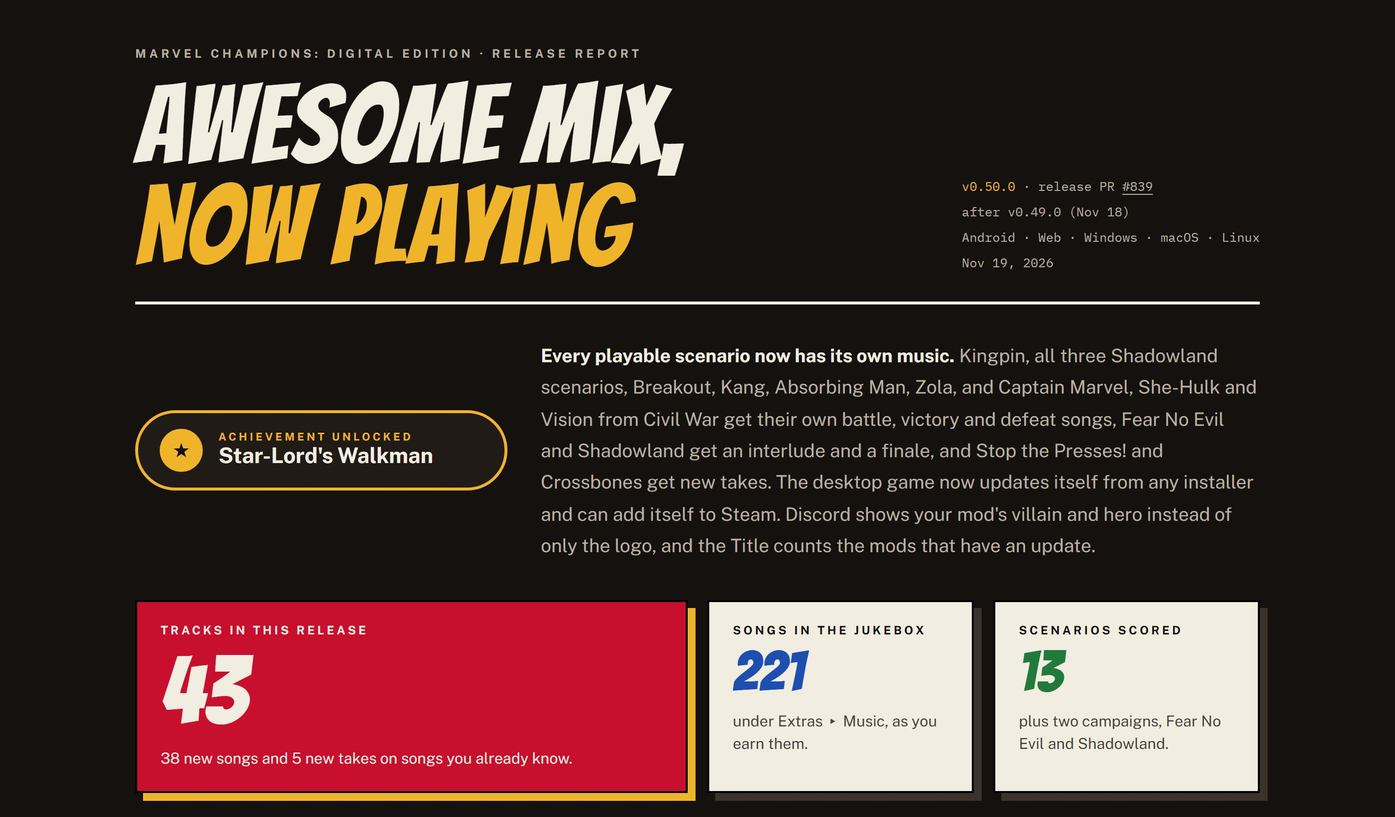
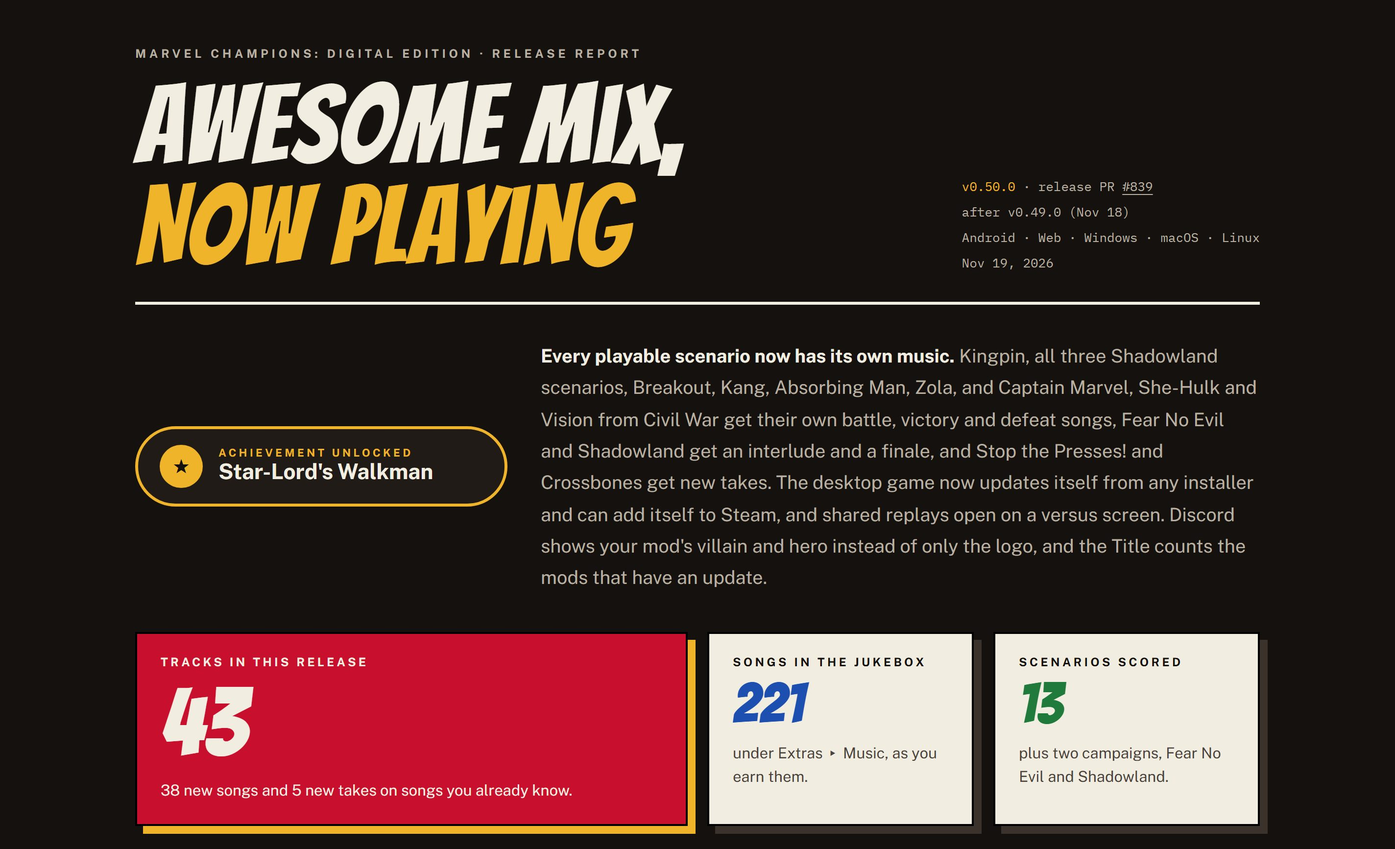
Add the replay versus screen (#859) to the v0.50.0 report

diff --git a/packages/client/public/releases/v0.50.0/index.html b/packages/client/public/releases/v0.50.0/index.html
@@ -658,8 +658,9 @@
           <b>Every playable scenario now has its own music.</b> Kingpin, all three Shadowland scenarios, Breakout, Kang,
           Absorbing Man, Zola, and Captain Marvel, She-Hulk and Vision from Civil War get their own battle, victory and
           defeat songs, Fear No Evil and Shadowland get an interlude and a finale, and Stop the Presses! and Crossbones
-          get new takes. The desktop game now updates itself from any installer and can add itself to Steam. Discord
-          shows your mod's villain and hero instead of only the logo, and the Title counts the mods that have an update.
+          get new takes. The desktop game now updates itself from any installer and can add itself to Steam, and shared
+          replays open on a versus screen. Discord shows your mod's villain and hero instead of only the logo, and the
+          Title counts the mods that have an update.
         </p>
       </section>
 
@@ -897,6 +898,69 @@
         </figure>
       </div>
 
+      <!-- ============ REPLAYS ============ -->
+      <div class="band">
+        <h2>Replays that enter like a boss fight</h2>
+        <div class="lab">Issue #858 · PR #859</div>
+      </div>
+      <div class="pill feat">
+        <div class="star">★</div>
+        <div><small>Achievement unlocked</small><span>The Watcher Is Watching</span></div>
+      </div>
+      <p class="lead">
+        <b>A shared replay link no longer lands on the title menu first.</b> It opens on its own loading screen, then a
+        versus screen of the villain against the heroes slides in with a whoosh, and the board comes up underneath.
+        Every replay opens this way now, from Past games, Game over and the Title too.
+      </p>
+      <div class="shots s-phone">
+        <figure class="a">
+          <img
+            src="img/replay-versus.webp"
+            alt="The versus screen: Klaw on the left, Captain America on the right, VERSUS on the seam between them"
+            width="1280"
+            height="871"
+            loading="lazy"
+          />
+          <figcaption>Klaw versus Captain America</figcaption>
+        </figure>
+        <figure class="a">
+          <img
+            src="img/replay-versus-phone.webp"
+            alt="The same versus screen on an iPhone SE, the villain above the hero"
+            width="375"
+            height="667"
+            loading="lazy"
+          />
+          <figcaption>Stacked on a phone</figcaption>
+        </figure>
+      </div>
+      <div class="cols">
+        <figure class="a">
+          <img
+            src="img/replay-loading.webp"
+            alt="Shared replay: Loading the shared replay, with a Cancel button, over a faded title picture"
+            width="1280"
+            height="871"
+            loading="lazy"
+          />
+          <figcaption>The loading screen a link opens on</figcaption>
+        </figure>
+        <div class="box">
+          <h3>Also with replays</h3>
+          <ul class="ck">
+            <li>
+              An expired, invalid or unreachable link says why on the loading screen, with a <b>Main menu</b> button.
+            </li>
+            <li>
+              Opening a replay file lives in <b>Past games</b>, with a folder icon. In the desktop app it opens your
+              system's own Open dialog, so a controller's A press works on Steam Deck and Bazzite.
+            </li>
+            <li>A replay plays its scenario's battle music.</li>
+            <li>Settings opened from Pause no longer draws over the sheets it opens, such as Controls.</li>
+          </ul>
+        </div>
+      </div>
+
       <!-- ============ DISCORD ============ -->
       <div class="band">
         <h2>Your mods, on Discord and the Title</h2>
@@ -1115,22 +1179,22 @@
       <section class="stats" aria-label="Code shipped since v0.49.0">
         <div class="tile">
           <h4>Pull requests</h4>
-          <div class="n">14</div>
+          <div class="n">15</div>
           <p>merged into main.</p>
         </div>
         <div class="tile">
           <h4>Files changed</h4>
-          <div class="n">141</div>
+          <div class="n">184</div>
           <p>across the client, the desktop app, the music and this report.</p>
         </div>
         <div class="tile">
           <h4>Lines added</h4>
-          <div class="n c-green">6,651</div>
-          <p>the updater, Add to Steam, the Discord work, their tests and this report.</p>
+          <div class="n c-green">8,346</div>
+          <p>the updater, Add to Steam, the replay screens, their tests and this report.</p>
         </div>
         <div class="tile">
           <h4>Lines removed</h4>
-          <div class="n c-red">1,005</div>
+          <div class="n c-red">1,172</div>
           <p>across the same pull requests.</p>
         </div>
       </section>

diff --git a/docs/releases/es/v0.50.0.md b/docs/releases/es/v0.50.0.md
@@ -1,22 +1,24 @@
 ## Awesome Mix, sonando ahora
 
-Cada escenario jugable tiene ahora su propia música. Kingpin, los tres escenarios de Shadowland (Shadows in the Night, Shadow Labyrinth y Heart of Shadow), Breakout, Kang, Absorbing Man, Zola, y Captain Marvel, She-Hulk y Vision de Civil War tienen su propia música de batalla, de victoria y de derrota, Fear No Evil y Shadowland tienen un interludio y un final de campaña, y Stop the Presses! y Crossbones estrenan nuevas versiones: 43 temas en total, 38 de ellos nuevos (#848, #849, #852, #854). El juego de escritorio ahora se actualiza solo desde el propio juego, sea cual sea el instalador que usaste: Update descarga la versión nueva en segundo plano y Restart te pone en ella, a partir de la versión siguiente a esta (#843, #847). Settings ▸ More ▸ Add to Steam pone el juego en tu biblioteca de Steam con su arte (#844, #850). En la app de escritorio, la Rich Presence de Discord muestra ahora el villano y el héroe del propio paquete de la Mod Store en vez de solo el logo del juego, y su botón Get the game abre las descargas en el sitio web (#840, #841), y el botón Mod Store del Title cuenta los paquetes instalados que tienen una actualización (#845, #855). Los contadores de chi de Power Man ahora preguntan "Remove how many chi counters?" con botones que se ven, gracias al reporte de @Merman-Helville (#856, #857). En Linux, las descargas de la Mod Store ahora muestran su progreso en vez de parecer congeladas (#860, #861). En una computadora, la parte superior del sitio web ofrece ahora el script de Steam junto a la descarga (#842, #846). Gracias a Patatasaurio, a Neptune (Typhon00) y a PermaKarma, con cuyos paquetes de Gwenpool, Mephisto, Carnage y The Punisher se comprobó, y a cada creador de la Mod Store. ¡Gracias por jugar!
+Cada escenario jugable tiene ahora su propia música. Kingpin, los tres escenarios de Shadowland (Shadows in the Night, Shadow Labyrinth y Heart of Shadow), Breakout, Kang, Absorbing Man, Zola, y Captain Marvel, She-Hulk y Vision de Civil War tienen su propia música de batalla, de victoria y de derrota, Fear No Evil y Shadowland tienen un interludio y un final de campaña, y Stop the Presses! y Crossbones estrenan nuevas versiones: 43 temas en total, 38 de ellos nuevos (#848, #849, #852, #854). El juego de escritorio ahora se actualiza solo desde el propio juego, sea cual sea el instalador que usaste: Update descarga la versión nueva en segundo plano y Restart te pone en ella, a partir de la versión siguiente a esta (#843, #847). Settings ▸ More ▸ Add to Steam pone el juego en tu biblioteca de Steam con su arte (#844, #850). Un enlace a una repetición compartida abre su propia pantalla de carga y una pantalla de versus del villano contra los héroes, y cada repetición se abre así (#858, #859). En la app de escritorio, la Rich Presence de Discord muestra ahora el villano y el héroe del propio paquete de la Mod Store en vez de solo el logo del juego, y su botón Get the game abre las descargas en el sitio web (#840, #841), y el botón Mod Store del Title cuenta los paquetes instalados que tienen una actualización (#845, #855). Los contadores de chi de Power Man ahora preguntan "Remove how many chi counters?" con botones que se ven, gracias al reporte de @Merman-Helville (#856, #857). En Linux, las descargas de la Mod Store ahora muestran su progreso en vez de parecer congeladas (#860, #861). En una computadora, la parte superior del sitio web ofrece ahora el script de Steam junto a la descarga (#842, #846). Gracias a Patatasaurio, a Neptune (Typhon00) y a PermaKarma, con cuyos paquetes de Gwenpool, Mephisto, Carnage y The Punisher se comprobó, y a cada creador de la Mod Store. ¡Gracias por jugar!
 
-![Los números: 43 temas en esta versión, 221 canciones en la gramola y 13 escenarios con música](https://raw.githubusercontent.com/quincarter/marvel-champions-digital-game/cade356a7677f19ff16d01ad6c009fa552c4b02e/docs/screenshots/releases/v0.50.0/v0-50-0-release-01-the-numbers.jpg)
+![Los números: 43 temas en esta versión, 221 canciones en la gramola y 13 escenarios con música](https://raw.githubusercontent.com/quincarter/marvel-champions-digital-game/0000000000000000000000000000000000000000/docs/screenshots/releases/v0.50.0/v0-50-0-release-01-the-numbers.jpg)
 
-![Cada escenario tiene banda sonora: la gramola con el tema de batalla de Kingpin, en escritorio y teléfono, y cada tema nuevo por escenario, Civil War incluida](https://raw.githubusercontent.com/quincarter/marvel-champions-digital-game/cade356a7677f19ff16d01ad6c009fa552c4b02e/docs/screenshots/releases/v0.50.0/v0-50-0-release-02-every-scenario-has-a-soundtrack.jpg)
+![Cada escenario tiene banda sonora: la gramola con el tema de batalla de Kingpin, en escritorio y teléfono, y cada tema nuevo por escenario, Civil War incluida](https://raw.githubusercontent.com/quincarter/marvel-champions-digital-game/0000000000000000000000000000000000000000/docs/screenshots/releases/v0.50.0/v0-50-0-release-02-every-scenario-has-a-soundtrack.jpg)
 
-![Actualizaciones que se instalan solas: The game has been updated con Restart now, el aviso con Restart, cómo se actualiza cada instalador, y Settings ▸ More ▸ Add to Steam](https://raw.githubusercontent.com/quincarter/marvel-champions-digital-game/cade356a7677f19ff16d01ad6c009fa552c4b02e/docs/screenshots/releases/v0.50.0/v0-50-0-release-03-updates-that-install-themselves.jpg)
+![Actualizaciones que se instalan solas: The game has been updated con Restart now, el aviso con Restart, cómo se actualiza cada instalador, y Settings ▸ More ▸ Add to Steam](https://raw.githubusercontent.com/quincarter/marvel-champions-digital-game/0000000000000000000000000000000000000000/docs/screenshots/releases/v0.50.0/v0-50-0-release-03-updates-that-install-themselves.jpg)
 
-![Tus mods, en Discord y en el Title: Carnage contra The Punisher en Discord, las descargas del sitio web que abre Get the game, Gwenpool y Mephisto de la Mod Store, y la insignia de actualizaciones del botón Mod Store](https://raw.githubusercontent.com/quincarter/marvel-champions-digital-game/cade356a7677f19ff16d01ad6c009fa552c4b02e/docs/screenshots/releases/v0.50.0/v0-50-0-release-04-your-mods-on-discord-and-the-title.jpg)
+![Repeticiones que entran como un jefe final: la pantalla de versus de Klaw contra Captain America en escritorio y teléfono, la pantalla de carga de una repetición compartida, y qué más cambió en las repeticiones](https://raw.githubusercontent.com/quincarter/marvel-champions-digital-game/0000000000000000000000000000000000000000/docs/screenshots/releases/v0.50.0/v0-50-0-release-04-replays-that-enter-like-a-boss-fight.jpg)
 
-![Lo pediste, lo corregimos: los contadores de chi de Power Man preguntan Remove how many chi counters? con botones que se ven, reportado por @Merman-Helville](https://raw.githubusercontent.com/quincarter/marvel-champions-digital-game/cade356a7677f19ff16d01ad6c009fa552c4b02e/docs/screenshots/releases/v0.50.0/v0-50-0-release-05-you-asked-we-fixed.jpg)
+![Tus mods, en Discord y en el Title: Carnage contra The Punisher en Discord, las descargas del sitio web que abre Get the game, Gwenpool y Mephisto de la Mod Store, y la insignia de actualizaciones del botón Mod Store](https://raw.githubusercontent.com/quincarter/marvel-champions-digital-game/0000000000000000000000000000000000000000/docs/screenshots/releases/v0.50.0/v0-50-0-release-05-your-mods-on-discord-and-the-title.jpg)
 
-![También en v0.50.0: las publicaciones de Discord enlazan a las descargas del sitio web, el progreso de las descargas de la Mod Store en Linux, y el botón Steam script del sitio web](https://raw.githubusercontent.com/quincarter/marvel-champions-digital-game/cade356a7677f19ff16d01ad6c009fa552c4b02e/docs/screenshots/releases/v0.50.0/v0-50-0-release-06-also-in-v0-50-0.jpg)
+![Lo pediste, lo corregimos: los contadores de chi de Power Man preguntan Remove how many chi counters? con botones que se ven, reportado por @Merman-Helville](https://raw.githubusercontent.com/quincarter/marvel-champions-digital-game/0000000000000000000000000000000000000000/docs/screenshots/releases/v0.50.0/v0-50-0-release-06-you-asked-we-fixed.jpg)
 
-![Gracias a @Merman-Helville, a Patatasaurio, a Neptune (Typhon00), a PermaKarma y a cada creador de la Mod Store](https://raw.githubusercontent.com/quincarter/marvel-champions-digital-game/cade356a7677f19ff16d01ad6c009fa552c4b02e/docs/screenshots/releases/v0.50.0/v0-50-0-release-07-thank-you.jpg)
+![También en v0.50.0: las publicaciones de Discord enlazan a las descargas del sitio web, el progreso de las descargas de la Mod Store en Linux, y el botón Steam script del sitio web](https://raw.githubusercontent.com/quincarter/marvel-champions-digital-game/0000000000000000000000000000000000000000/docs/screenshots/releases/v0.50.0/v0-50-0-release-07-also-in-v0-50-0.jpg)
 
-![Código publicado desde v0.49.0](https://raw.githubusercontent.com/quincarter/marvel-champions-digital-game/cade356a7677f19ff16d01ad6c009fa552c4b02e/docs/screenshots/releases/v0.50.0/v0-50-0-release-08-code-shipped.jpg)
+![Gracias a @Merman-Helville, a Patatasaurio, a Neptune (Typhon00), a PermaKarma y a cada creador de la Mod Store](https://raw.githubusercontent.com/quincarter/marvel-champions-digital-game/0000000000000000000000000000000000000000/docs/screenshots/releases/v0.50.0/v0-50-0-release-08-thank-you.jpg)
+
+![Código publicado desde v0.49.0](https://raw.githubusercontent.com/quincarter/marvel-champions-digital-game/0000000000000000000000000000000000000000/docs/screenshots/releases/v0.50.0/v0-50-0-release-09-code-shipped.jpg)
 
 ## [v0.50.0] - 2026-11-19
 
@@ -27,16 +29,20 @@ Cada escenario jugable tiene ahora su propia música. Kingpin, los tres escenari
 - Un juego de escritorio instalado desde el .exe o .msi de Windows, la app de Mac o el AppImage de Linux de la versión se actualiza solo desde el aviso de actualización: descarga en segundo plano, dice que el juego se ha actualizado y se reinicia en la versión nueva (#843).
 - El juego de escritorio tiene un botón Add to Steam en Settings ▸ More: ejecuta el script Install for Steam sobre el juego tal como está y lo pone en tu biblioteca de Steam con su arte, y solo aparece cuando Steam está instalado y el juego aún no está en él (#844).
 - El informe de la versión v0.50.0 tiene su propia página en el sitio, en /releases/v0.50.0/
+- Cada repetición (Past games, Game over, las partidas en curso del Title, Extras) se abre ahora en la pantalla de versus, con un silbido al aparecer (#858).
 
 ### Changed
 
 - El botón Get the game de la presencia de Discord abre la sección de descargas del sitio web en vez de la página de la versión en GitHub.
+- Un enlace a una repetición compartida abre ahora su propia pantalla de carga y muestra una pantalla de versus del villano contra los héroes antes de la mesa, sin pasar por el menú del título; una repetición caducada, no válida o inalcanzable dice por qué ahí, con un botón Main menu (#858).
 
 ### Fixed
 
 - La presencia de Discord muestra el arte de las cartas de los villanos y héroes de los mods desde la Mod Store en vez de solo el logo (#840).
 - Los contadores de chi de Power Man (y cualquier otro coste de "quitar hasta N contadores") preguntan "Remove how many chi counters?" con botones numéricos que se ven, en vez de un "2" rojo sobre rojo bajo "How many chi?" (#856).
 - Las descargas de la Mod Store en la app de escritorio muestran su progreso a medida que llega el zip, así que en Linux instalar o actualizar un mod ya no parece congelado en Starting (#860).
+- Abrir un archivo de repetición: Extras ya no tiene el botón (está en Past games, ahora con un icono de carpeta y una etiqueta más clara), y en la app de escritorio abre el diálogo Abrir del sistema, así que el botón A de un mando funciona en Steam Deck y Bazzite (#858).
+- Settings abierto desde el menú de pausa ya no se dibuja encima de las hojas que abre, como Controls (#858).
 
 ### Content
 

diff --git a/docs/screenshots/releases/v0.50.0/github-release-body.md b/docs/screenshots/releases/v0.50.0/github-release-body.md
@@ -1,26 +1,28 @@
 ## Awesome Mix, Now Playing
 
-Every playable scenario now has its own music. Kingpin, all three Shadowland scenarios (Shadows in the Night, Shadow Labyrinth and Heart of Shadow), Breakout, Kang, Absorbing Man, Zola, and Civil War's Captain Marvel, She-Hulk and Vision get their own battle, victory and defeat music, Fear No Evil and Shadowland get a campaign interlude and finale, and Stop the Presses! and Crossbones get new takes: 43 tracks in all, 38 of them new (#848, #849, #852, #854). The desktop game now updates itself from inside the game, whichever installer you used: Update downloads the new release in the background and Restart puts you on it, starting with the release after this one (#843, #847). Settings ▸ More ▸ Add to Steam puts the game in your Steam library with its art (#844, #850). In the desktop app, Discord Rich Presence now shows a Mod Store pack's own villain and hero instead of only the game's logo, and its Get the game button opens the downloads on the website (#840, #841), and the Title's Mod Store button counts the installed packs that have an update (#845, #855). Power Man's chi counters now ask "Remove how many chi counters?" with buttons you can see, thanks to @Merman-Helville's report (#856, #857). On Linux, Mod Store downloads now show their progress instead of looking frozen (#860, #861). On a computer, the website's top now offers the Steam script beside the download (#842, #846). Thank you to Patatasaurio, Neptune (Typhon00) and PermaKarma, whose Gwenpool, Mephisto, Carnage and The Punisher packs it was checked with, and to every Mod Store creator. Thank you for playing!
+Every playable scenario now has its own music. Kingpin, all three Shadowland scenarios (Shadows in the Night, Shadow Labyrinth and Heart of Shadow), Breakout, Kang, Absorbing Man, Zola, and Civil War's Captain Marvel, She-Hulk and Vision get their own battle, victory and defeat music, Fear No Evil and Shadowland get a campaign interlude and finale, and Stop the Presses! and Crossbones get new takes: 43 tracks in all, 38 of them new (#848, #849, #852, #854). The desktop game now updates itself from inside the game, whichever installer you used: Update downloads the new release in the background and Restart puts you on it, starting with the release after this one (#843, #847). Settings ▸ More ▸ Add to Steam puts the game in your Steam library with its art (#844, #850). A shared replay link opens on its own loading screen and a versus screen of the villain against the heroes, and every replay opens that way (#858, #859). In the desktop app, Discord Rich Presence now shows a Mod Store pack's own villain and hero instead of only the game's logo, and its Get the game button opens the downloads on the website (#840, #841), and the Title's Mod Store button counts the installed packs that have an update (#845, #855). Power Man's chi counters now ask "Remove how many chi counters?" with buttons you can see, thanks to @Merman-Helville's report (#856, #857). On Linux, Mod Store downloads now show their progress instead of looking frozen (#860, #861). On a computer, the website's top now offers the Steam script beside the download (#842, #846). Thank you to Patatasaurio, Neptune (Typhon00) and PermaKarma, whose Gwenpool, Mephisto, Carnage and The Punisher packs it was checked with, and to every Mod Store creator. Thank you for playing!
 
-**[Read the full v0.50.0 report on the site ↗](https://champions-digital-game.com/releases/v0.50.0/)**: the new music scenario by scenario, where you'll hear it, updates that install themselves, Add to Steam, your mods on Discord, the mod update badge, Power Man's chi fix, the new downloads link, the Steam script button on the website and the thank-you wall.
+**[Read the full v0.50.0 report on the site ↗](https://champions-digital-game.com/releases/v0.50.0/)**: the new music scenario by scenario, where you'll hear it, updates that install themselves, Add to Steam, the replay versus screen, your mods on Discord, the mod update badge, Power Man's chi fix, the new downloads link, the Steam script button on the website and the thank-you wall.
 
 **[Lee el informe completo en español ↗](https://champions-digital-game.com/releases/v0.50.0/index.es.html)**
 
-![The numbers: 43 tracks in this release, 221 songs in the jukebox and 13 scenarios scored](https://raw.githubusercontent.com/quincarter/marvel-champions-digital-game/cade356a7677f19ff16d01ad6c009fa552c4b02e/docs/screenshots/releases/v0.50.0/v0-50-0-release-01-the-numbers.jpg)
+![The numbers: 43 tracks in this release, 221 songs in the jukebox and 13 scenarios scored](https://raw.githubusercontent.com/quincarter/marvel-champions-digital-game/0000000000000000000000000000000000000000/docs/screenshots/releases/v0.50.0/v0-50-0-release-01-the-numbers.jpg)
 
-![Every scenario has a soundtrack: the jukebox playing Kingpin's battle track, on desktop and phone, and every new track by scenario, Civil War included](https://raw.githubusercontent.com/quincarter/marvel-champions-digital-game/cade356a7677f19ff16d01ad6c009fa552c4b02e/docs/screenshots/releases/v0.50.0/v0-50-0-release-02-every-scenario-has-a-soundtrack.jpg)
+![Every scenario has a soundtrack: the jukebox playing Kingpin's battle track, on desktop and phone, and every new track by scenario, Civil War included](https://raw.githubusercontent.com/quincarter/marvel-champions-digital-game/0000000000000000000000000000000000000000/docs/screenshots/releases/v0.50.0/v0-50-0-release-02-every-scenario-has-a-soundtrack.jpg)
 
-![Updates that install themselves: The game has been updated with Restart now, the Restart banner, how each installer updates, and Settings ▸ More ▸ Add to Steam](https://raw.githubusercontent.com/quincarter/marvel-champions-digital-game/cade356a7677f19ff16d01ad6c009fa552c4b02e/docs/screenshots/releases/v0.50.0/v0-50-0-release-03-updates-that-install-themselves.jpg)
+![Updates that install themselves: The game has been updated with Restart now, the Restart banner, how each installer updates, and Settings ▸ More ▸ Add to Steam](https://raw.githubusercontent.com/quincarter/marvel-champions-digital-game/0000000000000000000000000000000000000000/docs/screenshots/releases/v0.50.0/v0-50-0-release-03-updates-that-install-themselves.jpg)
 
-![Your mods, on Discord and the Title: Carnage vs The Punisher in Discord, the website's downloads that Get the game opens, Gwenpool and Mephisto from the Mod Store, and the Mod Store button's update badge](https://raw.githubusercontent.com/quincarter/marvel-champions-digital-game/cade356a7677f19ff16d01ad6c009fa552c4b02e/docs/screenshots/releases/v0.50.0/v0-50-0-release-04-your-mods-on-discord-and-the-title.jpg)
+![Replays that enter like a boss fight: the versus screen of Klaw against Captain America on desktop and phone, the shared replay loading screen, and what else changed for replays](https://raw.githubusercontent.com/quincarter/marvel-champions-digital-game/0000000000000000000000000000000000000000/docs/screenshots/releases/v0.50.0/v0-50-0-release-04-replays-that-enter-like-a-boss-fight.jpg)
 
-![You asked, we fixed: Power Man's chi counters ask Remove how many chi counters? with buttons you can see, reported by @Merman-Helville](https://raw.githubusercontent.com/quincarter/marvel-champions-digital-game/cade356a7677f19ff16d01ad6c009fa552c4b02e/docs/screenshots/releases/v0.50.0/v0-50-0-release-05-you-asked-we-fixed.jpg)
+![Your mods, on Discord and the Title: Carnage vs The Punisher in Discord, the website's downloads that Get the game opens, Gwenpool and Mephisto from the Mod Store, and the Mod Store button's update badge](https://raw.githubusercontent.com/quincarter/marvel-champions-digital-game/0000000000000000000000000000000000000000/docs/screenshots/releases/v0.50.0/v0-50-0-release-05-your-mods-on-discord-and-the-title.jpg)
 
-![Also in v0.50.0: Discord posts link to the website's downloads, Mod Store download progress on Linux, and the website's Steam script button](https://raw.githubusercontent.com/quincarter/marvel-champions-digital-game/cade356a7677f19ff16d01ad6c009fa552c4b02e/docs/screenshots/releases/v0.50.0/v0-50-0-release-06-also-in-v0-50-0.jpg)
+![You asked, we fixed: Power Man's chi counters ask Remove how many chi counters? with buttons you can see, reported by @Merman-Helville](https://raw.githubusercontent.com/quincarter/marvel-champions-digital-game/0000000000000000000000000000000000000000/docs/screenshots/releases/v0.50.0/v0-50-0-release-06-you-asked-we-fixed.jpg)
 
-![Thank you to @Merman-Helville, Patatasaurio, Neptune (Typhon00), PermaKarma and every Mod Store creator](https://raw.githubusercontent.com/quincarter/marvel-champions-digital-game/cade356a7677f19ff16d01ad6c009fa552c4b02e/docs/screenshots/releases/v0.50.0/v0-50-0-release-07-thank-you.jpg)
+![Also in v0.50.0: Discord posts link to the website's downloads, Mod Store download progress on Linux, and the website's Steam script button](https://raw.githubusercontent.com/quincarter/marvel-champions-digital-game/0000000000000000000000000000000000000000/docs/screenshots/releases/v0.50.0/v0-50-0-release-07-also-in-v0-50-0.jpg)
 
-![Code shipped since v0.49.0](https://raw.githubusercontent.com/quincarter/marvel-champions-digital-game/cade356a7677f19ff16d01ad6c009fa552c4b02e/docs/screenshots/releases/v0.50.0/v0-50-0-release-08-code-shipped.jpg)
+![Thank you to @Merman-Helville, Patatasaurio, Neptune (Typhon00), PermaKarma and every Mod Store creator](https://raw.githubusercontent.com/quincarter/marvel-champions-digital-game/0000000000000000000000000000000000000000/docs/screenshots/releases/v0.50.0/v0-50-0-release-08-thank-you.jpg)
+
+![Code shipped since v0.49.0](https://raw.githubusercontent.com/quincarter/marvel-champions-digital-game/0000000000000000000000000000000000000000/docs/screenshots/releases/v0.50.0/v0-50-0-release-09-code-shipped.jpg)
 
 ---
 
@@ -33,16 +35,20 @@ Every playable scenario now has its own music. Kingpin, all three Shadowland sce
 - A desktop game installed from the release's Windows .exe or .msi, Mac app or Linux AppImage updates itself from the update banner: it downloads in the background, says the game has been updated, and restarts into the new version (#843).
 - The desktop game has an Add to Steam button under Settings ▸ More: it runs the Install for Steam script on the game as it is and puts it in your Steam library with its art, and only shows when Steam is installed and the game isn't in it yet (#844).
 - The v0.50.0 release report has its own page on the site, at /releases/v0.50.0/
+- Every replay (Past games, Game over, Title's in-progress games, Extras) now opens on the versus screen, with a whoosh as it comes up (#858).
 
 ### Changed
 
 - Discord presence's Get the game button opens the website's downloads section instead of the GitHub release page.
+- A shared replay link now opens on its own loading screen and shows a versus screen of the villain against the heroes before the board, skipping the title menu; an expired, invalid or unreachable replay says why there, with a Main menu button (#858).
 
 ### Fixed
 
 - Discord presence shows mod villains' and heroes' card art from the Mod Store instead of only the logo (#840).
 - Power Man's chi counters (and every other "remove up to N counters" cost) ask "Remove how many chi counters?" with number buttons you can see, instead of a red-on-red "2" under "How many chi?" (#856).
 - Mod Store downloads in the desktop app show their progress as the zip arrives, so on Linux an install or update no longer looks frozen at Starting (#860).
+- Opening a replay file: Extras no longer has the button (it lives in Past games, now with a folder icon and a clearer label), and in the desktop app it opens the system's own Open dialog, so a controller's A press works on Steam Deck and Bazzite (#858).
+- Settings opened from the pause menu no longer draws over the sheets it opens, such as Controls (#858).
 
 ### Content
 

diff --git a/docs/screenshots/releases/v0.50.0/release-notes-header.md b/docs/screenshots/releases/v0.50.0/release-notes-header.md
@@ -1,23 +1,25 @@
 ## Awesome Mix, Now Playing
 
-Every playable scenario now has its own music. Kingpin, all three Shadowland scenarios (Shadows in the Night, Shadow Labyrinth and Heart of Shadow), Breakout, Kang, Absorbing Man, Zola, and Civil War's Captain Marvel, She-Hulk and Vision get their own battle, victory and defeat music, Fear No Evil and Shadowland get a campaign interlude and finale, and Stop the Presses! and Crossbones get new takes: 43 tracks in all, 38 of them new (#848, #849, #852, #854). The desktop game now updates itself from inside the game, whichever installer you used: Update downloads the new release in the background and Restart puts you on it, starting with the release after this one (#843, #847). Settings ▸ More ▸ Add to Steam puts the game in your Steam library with its art (#844, #850). In the desktop app, Discord Rich Presence now shows a Mod Store pack's own villain and hero instead of only the game's logo, and its Get the game button opens the downloads on the website (#840, #841), and the Title's Mod Store button counts the installed packs that have an update (#845, #855). Power Man's chi counters now ask "Remove how many chi counters?" with buttons you can see, thanks to @Merman-Helville's report (#856, #857). On Linux, Mod Store downloads now show their progress instead of looking frozen (#860, #861). On a computer, the website's top now offers the Steam script beside the download (#842, #846). Thank you to Patatasaurio, Neptune (Typhon00) and PermaKarma, whose Gwenpool, Mephisto, Carnage and The Punisher packs it was checked with, and to every Mod Store creator. Thank you for playing!
+Every playable scenario now has its own music. Kingpin, all three Shadowland scenarios (Shadows in the Night, Shadow Labyrinth and Heart of Shadow), Breakout, Kang, Absorbing Man, Zola, and Civil War's Captain Marvel, She-Hulk and Vision get their own battle, victory and defeat music, Fear No Evil and Shadowland get a campaign interlude and finale, and Stop the Presses! and Crossbones get new takes: 43 tracks in all, 38 of them new (#848, #849, #852, #854). The desktop game now updates itself from inside the game, whichever installer you used: Update downloads the new release in the background and Restart puts you on it, starting with the release after this one (#843, #847). Settings ▸ More ▸ Add to Steam puts the game in your Steam library with its art (#844, #850). A shared replay link opens on its own loading screen and a versus screen of the villain against the heroes, and every replay opens that way (#858, #859). In the desktop app, Discord Rich Presence now shows a Mod Store pack's own villain and hero instead of only the game's logo, and its Get the game button opens the downloads on the website (#840, #841), and the Title's Mod Store button counts the installed packs that have an update (#845, #855). Power Man's chi counters now ask "Remove how many chi counters?" with buttons you can see, thanks to @Merman-Helville's report (#856, #857). On Linux, Mod Store downloads now show their progress instead of looking frozen (#860, #861). On a computer, the website's top now offers the Steam script beside the download (#842, #846). Thank you to Patatasaurio, Neptune (Typhon00) and PermaKarma, whose Gwenpool, Mephisto, Carnage and The Punisher packs it was checked with, and to every Mod Store creator. Thank you for playing!
 
-**[Read the full v0.50.0 report on the site ↗](https://champions-digital-game.com/releases/v0.50.0/)**: the new music scenario by scenario, where you'll hear it, updates that install themselves, Add to Steam, your mods on Discord, the mod update badge, Power Man's chi fix, the new downloads link, the Steam script button on the website and the thank-you wall.
+**[Read the full v0.50.0 report on the site ↗](https://champions-digital-game.com/releases/v0.50.0/)**: the new music scenario by scenario, where you'll hear it, updates that install themselves, Add to Steam, the replay versus screen, your mods on Discord, the mod update badge, Power Man's chi fix, the new downloads link, the Steam script button on the website and the thank-you wall.
 
 **[Lee el informe completo en español ↗](https://champions-digital-game.com/releases/v0.50.0/index.es.html)**
 
-![The numbers: 43 tracks in this release, 221 songs in the jukebox and 13 scenarios scored](https://raw.githubusercontent.com/quincarter/marvel-champions-digital-game/cade356a7677f19ff16d01ad6c009fa552c4b02e/docs/screenshots/releases/v0.50.0/v0-50-0-release-01-the-numbers.jpg)
+![The numbers: 43 tracks in this release, 221 songs in the jukebox and 13 scenarios scored](https://raw.githubusercontent.com/quincarter/marvel-champions-digital-game/0000000000000000000000000000000000000000/docs/screenshots/releases/v0.50.0/v0-50-0-release-01-the-numbers.jpg)
 
-![Every scenario has a soundtrack: the jukebox playing Kingpin's battle track, on desktop and phone, and every new track by scenario, Civil War included](https://raw.githubusercontent.com/quincarter/marvel-champions-digital-game/cade356a7677f19ff16d01ad6c009fa552c4b02e/docs/screenshots/releases/v0.50.0/v0-50-0-release-02-every-scenario-has-a-soundtrack.jpg)
+![Every scenario has a soundtrack: the jukebox playing Kingpin's battle track, on desktop and phone, and every new track by scenario, Civil War included](https://raw.githubusercontent.com/quincarter/marvel-champions-digital-game/0000000000000000000000000000000000000000/docs/screenshots/releases/v0.50.0/v0-50-0-release-02-every-scenario-has-a-soundtrack.jpg)
 
-![Updates that install themselves: The game has been updated with Restart now, the Restart banner, how each installer updates, and Settings ▸ More ▸ Add to Steam](https://raw.githubusercontent.com/quincarter/marvel-champions-digital-game/cade356a7677f19ff16d01ad6c009fa552c4b02e/docs/screenshots/releases/v0.50.0/v0-50-0-release-03-updates-that-install-themselves.jpg)
+![Updates that install themselves: The game has been updated with Restart now, the Restart banner, how each installer updates, and Settings ▸ More ▸ Add to Steam](https://raw.githubusercontent.com/quincarter/marvel-champions-digital-game/0000000000000000000000000000000000000000/docs/screenshots/releases/v0.50.0/v0-50-0-release-03-updates-that-install-themselves.jpg)
 
-![Your mods, on Discord and the Title: Carnage vs The Punisher in Discord, the website's downloads that Get the game opens, Gwenpool and Mephisto from the Mod Store, and the Mod Store button's update badge](https://raw.githubusercontent.com/quincarter/marvel-champions-digital-game/cade356a7677f19ff16d01ad6c009fa552c4b02e/docs/screenshots/releases/v0.50.0/v0-50-0-release-04-your-mods-on-discord-and-the-title.jpg)
+![Replays that enter like a boss fight: the versus screen of Klaw against Captain America on desktop and phone, the shared replay loading screen, and what else changed for replays](https://raw.githubusercontent.com/quincarter/marvel-champions-digital-game/0000000000000000000000000000000000000000/docs/screenshots/releases/v0.50.0/v0-50-0-release-04-replays-that-enter-like-a-boss-fight.jpg)
 
-![You asked, we fixed: Power Man's chi counters ask Remove how many chi counters? with buttons you can see, reported by @Merman-Helville](https://raw.githubusercontent.com/quincarter/marvel-champions-digital-game/cade356a7677f19ff16d01ad6c009fa552c4b02e/docs/screenshots/releases/v0.50.0/v0-50-0-release-05-you-asked-we-fixed.jpg)
+![Your mods, on Discord and the Title: Carnage vs The Punisher in Discord, the website's downloads that Get the game opens, Gwenpool and Mephisto from the Mod Store, and the Mod Store button's update badge](https://raw.githubusercontent.com/quincarter/marvel-champions-digital-game/0000000000000000000000000000000000000000/docs/screenshots/releases/v0.50.0/v0-50-0-release-05-your-mods-on-discord-and-the-title.jpg)
 
-![Also in v0.50.0: Discord posts link to the website's downloads, Mod Store download progress on Linux, and the website's Steam script button](https://raw.githubusercontent.com/quincarter/marvel-champions-digital-game/cade356a7677f19ff16d01ad6c009fa552c4b02e/docs/screenshots/releases/v0.50.0/v0-50-0-release-06-also-in-v0-50-0.jpg)
+![You asked, we fixed: Power Man's chi counters ask Remove how many chi counters? with buttons you can see, reported by @Merman-Helville](https://raw.githubusercontent.com/quincarter/marvel-champions-digital-game/0000000000000000000000000000000000000000/docs/screenshots/releases/v0.50.0/v0-50-0-release-06-you-asked-we-fixed.jpg)
 
-![Thank you to @Merman-Helville, Patatasaurio, Neptune (Typhon00), PermaKarma and every Mod Store creator](https://raw.githubusercontent.com/quincarter/marvel-champions-digital-game/cade356a7677f19ff16d01ad6c009fa552c4b02e/docs/screenshots/releases/v0.50.0/v0-50-0-release-07-thank-you.jpg)
+![Also in v0.50.0: Discord posts link to the website's downloads, Mod Store download progress on Linux, and the website's Steam script button](https://raw.githubusercontent.com/quincarter/marvel-champions-digital-game/0000000000000000000000000000000000000000/docs/screenshots/releases/v0.50.0/v0-50-0-release-07-also-in-v0-50-0.jpg)
 
-![Code shipped since v0.49.0](https://raw.githubusercontent.com/quincarter/marvel-champions-digital-game/cade356a7677f19ff16d01ad6c009fa552c4b02e/docs/screenshots/releases/v0.50.0/v0-50-0-release-08-code-shipped.jpg)
+![Thank you to @Merman-Helville, Patatasaurio, Neptune (Typhon00), PermaKarma and every Mod Store creator](https://raw.githubusercontent.com/quincarter/marvel-champions-digital-game/0000000000000000000000000000000000000000/docs/screenshots/releases/v0.50.0/v0-50-0-release-08-thank-you.jpg)
+
+![Code shipped since v0.49.0](https://raw.githubusercontent.com/quincarter/marvel-champions-digital-game/0000000000000000000000000000000000000000/docs/screenshots/releases/v0.50.0/v0-50-0-release-09-code-shipped.jpg)

diff --git a/docs/screenshots/releases/v0.50.0/discord-post.md b/docs/screenshots/releases/v0.50.0/discord-post.md
@@ -2,12 +2,12 @@
 
 Every playable scenario now has its own music.
 
-🎵 **43 tracks of new music**: Kingpin, all three Shadowland scenarios, Breakout, Kang, Absorbing Man, Zola, and Civil War's Captain Marvel, She-Hulk and Vision get their own battle, victory and defeat songs. Fear No Evil and Shadowland get a campaign interlude and finale.
-🔁 **New takes**: Stop the Presses! and Crossbones get remade tracks, and Stop the Presses! gets its victory track, Extra! Extra!
-📻 **The jukebox**: each song opens in Extras ▸ Music as you earn it in your games. That's 221 songs in all.
-⚡ **Updates that install themselves**: the desktop game now updates from inside the game, whichever installer you used. Update downloads it while you play, Restart puts you on it. It starts with the release after this one, so grab v0.50.0 from the website.
+🎵 **43 tracks of new music**: Kingpin, all three Shadowland scenarios, Breakout, Kang, Absorbing Man, Zola, and Civil War's Captain Marvel, She-Hulk and Vision get their own battle, victory and defeat songs. Fear No Evil and Shadowland get a campaign interlude and finale, and Stop the Presses! and Crossbones get new takes.
+📻 **The jukebox**: 221 songs in Extras ▸ Music, each opened as you earn it.
+⚡ **Updates that install themselves**: the desktop game now updates itself from any installer: Update downloads while you play, Restart applies it. It starts with the next release, so grab v0.50.0 from the website.
+🎬 **Replays**: a shared replay link opens on its own loading screen, then a versus screen of the villain against your heroes.
 🚂 **Add to Steam**: Settings ▸ More ▸ Add to Steam puts the game in your Steam library with its art.
-🎮 **Your mods on Discord**: in the desktop app, a Mod Store pack now shows its own villain and hero on your Discord profile instead of only the logo.
+🎮 **Your mods on Discord**: a Mod Store pack now shows its own villain and hero on your Discord profile.
 🔴 **Mod updates**: the Title's Mod Store button shows how many of your mods have an update, and on Linux mod downloads show their progress.
 🦾 **Power Man's chi**: removing chi counters asks a clear question with buttons you can see.
 🔗 **The website**: Get the game on your Discord profile opens the website's downloads, and on a computer the website offers the Steam script beside the download.
@@ -21,12 +21,12 @@ Downloads: https://champions-digital-game.com/#download
 
 Cada escenario jugable tiene ahora su propia música.
 
-🎵 **43 temas de música nueva**: Kingpin, los tres escenarios de Shadowland, Breakout, Kang, Absorbing Man, Zola, y Captain Marvel, She-Hulk y Vision de Civil War tienen sus propias canciones de batalla, de victoria y de derrota. Fear No Evil y Shadowland tienen un interludio y un final de campaña.
-🔁 **Nuevas versiones**: Stop the Presses! y Crossbones estrenan temas rehechos, y Stop the Presses! recibe su tema de victoria, Extra! Extra!
-📻 **La gramola**: cada canción se abre en Extras ▸ Music a medida que la ganas en tus partidas. Son 221 canciones en total.
-⚡ **Actualizaciones que se instalan solas**: el juego de escritorio ahora se actualiza desde el propio juego, sea cual sea el instalador que usaste. Update la descarga mientras juegas y Restart te pone en ella. Empieza con la versión siguiente a esta, así que descarga v0.50.0 desde el sitio web.
+🎵 **43 temas de música nueva**: Kingpin, los tres escenarios de Shadowland, Breakout, Kang, Absorbing Man, Zola, y Captain Marvel, She-Hulk y Vision de Civil War tienen sus propias canciones de batalla, de victoria y de derrota. Fear No Evil y Shadowland tienen un interludio y un final de campaña, y Stop the Presses! y Crossbones estrenan nuevas versiones.
+📻 **La gramola**: 221 canciones en Extras ▸ Music, cada una se abre al ganarla.
+⚡ **Actualizaciones que se instalan solas**: el juego de escritorio ahora se actualiza solo desde cualquier instalador: Update descarga mientras juegas y Restart la aplica. Empieza con la próxima versión, así que descarga v0.50.0 desde el sitio web.
+🎬 **Repeticiones**: un enlace a una repetición compartida abre su propia pantalla de carga y luego un versus del villano contra tus héroes.
 🚂 **Add to Steam**: Settings ▸ More ▸ Add to Steam pone el juego en tu biblioteca de Steam con su arte.
-🎮 **Tus mods en Discord**: en la app de escritorio, un paquete de la Mod Store muestra ahora su propio villano y su propio héroe en tu perfil de Discord en vez de solo el logo.
+🎮 **Tus mods en Discord**: un paquete de la Mod Store muestra ahora su propio villano y su propio héroe en tu perfil de Discord.
 🔴 **Actualizaciones de mods**: el botón Mod Store del Title muestra cuántos de tus mods tienen una actualización, y en Linux las descargas de mods muestran su progreso.
 🦾 **El chi de Power Man**: quitar contadores de chi hace una pregunta clara con botones que se ven.
 🔗 **El sitio web**: Get the game en tu perfil de Discord abre las descargas del sitio web, y en una computadora el sitio ofrece el script de Steam junto a la descarga.
